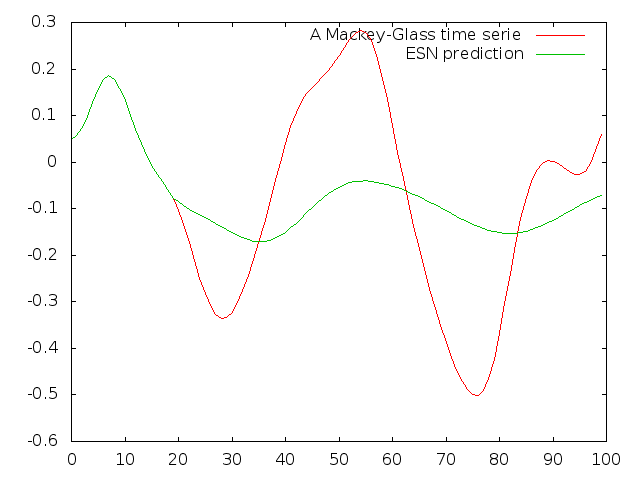
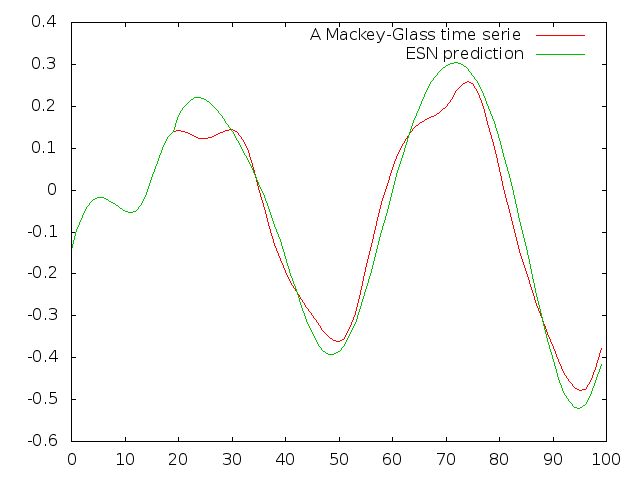
Show more typical example

diff --git a/src/mackey.cpp b/src/mackey.cpp
@@ -7,11 +7,9 @@
 #include <stdlib.h>
 
 #include <esn.h>
-//#include <audioMicrocircuit.h>
 #include <inv.h>
 #include <esn_train.h>
 
-//using namespace almendeSensorFusion;
 using namespace std;
 
 #define HARD_MACKEY_GLASS  	30
@@ -192,7 +190,7 @@ void test_regression() {
  ***************************************************************************/
 
 /**
- * Create and run an ESN. Misuse the audioMicrocircuit class for that.
+ * Create and run an ESN. 
  */
 int main(int argc, char*argv[]) {
 //#define TEST
@@ -251,7 +249,7 @@ int main(int argc, char*argv[]) {
 //	nof_neurons = 60; K = 8;
 	float connectivity = K / (float)nof_neurons;
 
-	connectivity = 0.2;
+	connectivity = 0.1;
 	ESNPrediction pred(nof_neurons, connectivity);
 
 	for (int t = 0; t < nof_trials; t++) {
